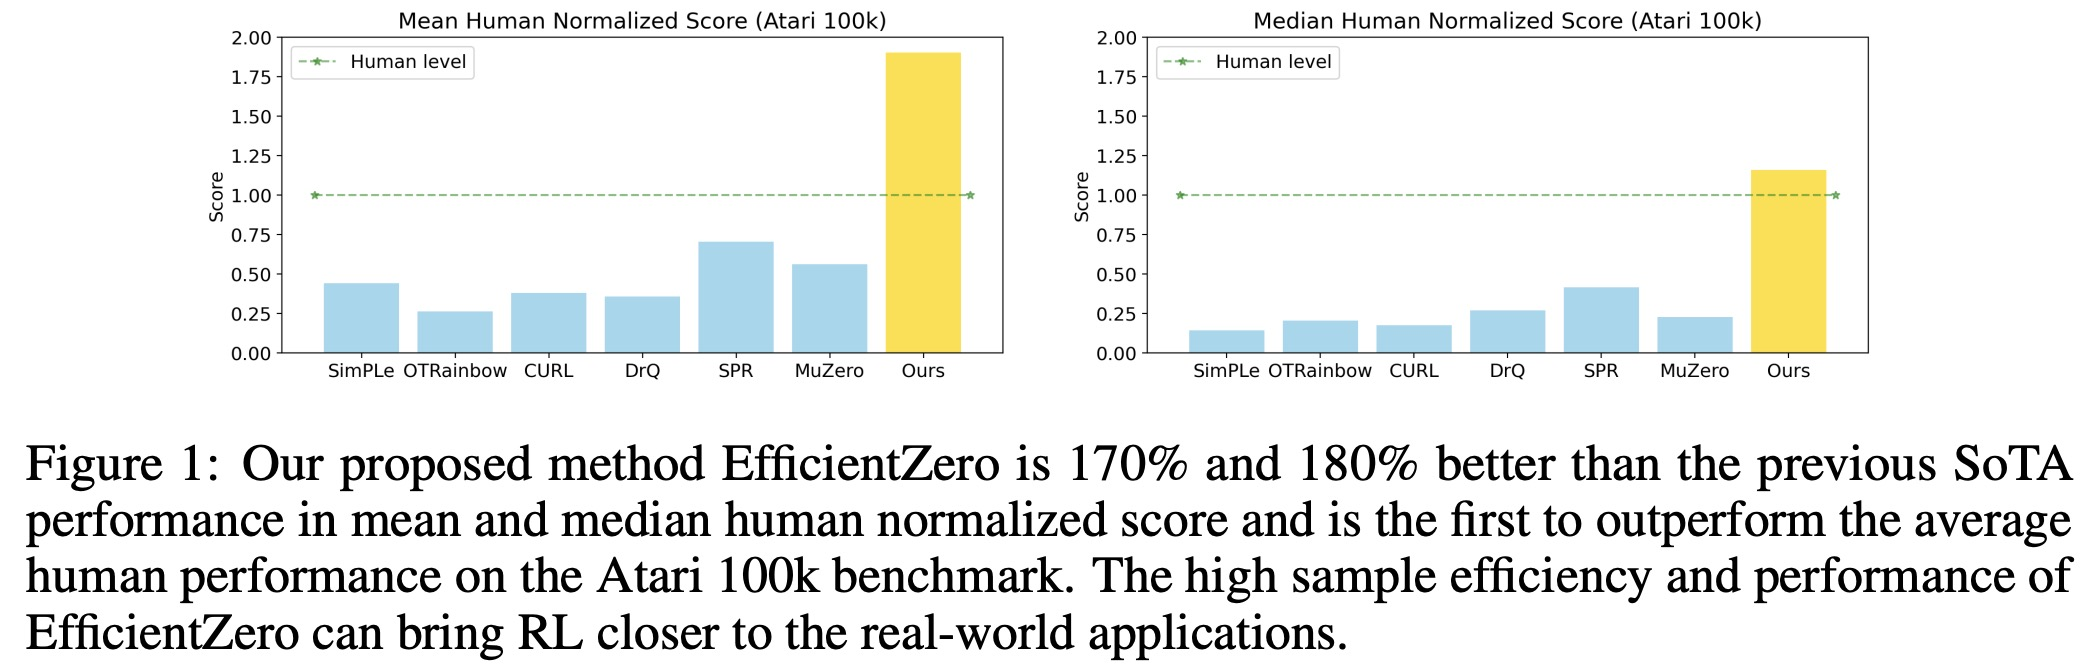
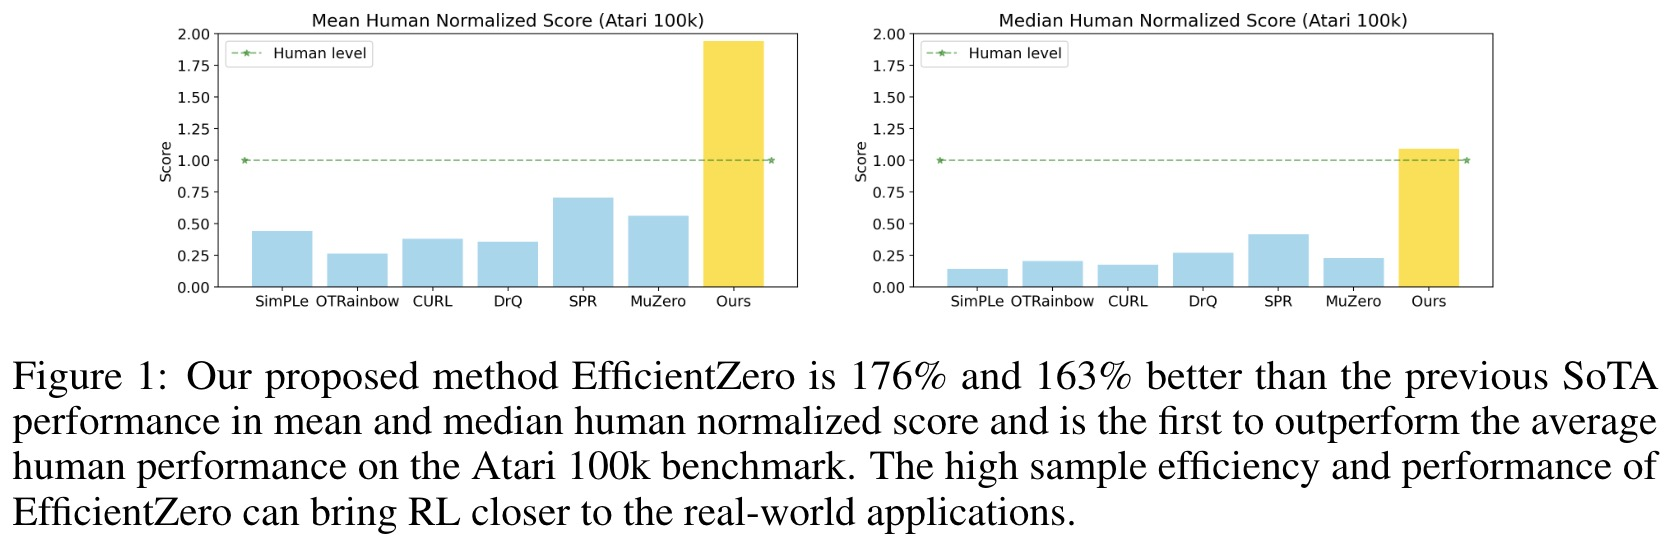
add something

diff --git a/projects/efficientzero/index.html b/projects/efficientzero/index.html
@@ -61,7 +61,7 @@
     },
     "headline": "Mastering Atari Games with Limited Data | Weirui Ye","datePublished": "2021-11-03T00:00:00+00:00",
     "dateModified": "2021-11-03T00:00:00+00:00",
-    "wordCount":  337 ,
+    "wordCount":  356 ,
     "publisher": {
         "@type": "Person",
         "name": "Weirui Ye",
@@ -224,7 +224,7 @@ However, sample efficiency remains a key challenge, with prominent methods requi
 Recently, there has been significant progress in sample efficient image-based RL algorithms;
 however, consistent human-level performance on the Atari game benchmark remains an elusive goal.
 We propose a sample efficient model-based visual RL algorithm built on MuZero, which we name EfficientZero.
-Our method achieves 190.4% mean human performance and 116.0% median performance on the Atari 100k benchmark with only two hours of real-time game experience and outperforms the state SAC in some tasks on the DMControl 100k benchmark.
+Our method achieves 194.3% mean human performance and 109.0% median performance on the Atari 100k benchmark with only two hours of real-time game experience and outperforms the state SAC in some tasks on the DMControl 100k benchmark.
 This is the first time an algorithm achieves super-human performance on Atari games with such little data.
 EfficientZero&rsquo;s performance is also close to DQN&rsquo;s performance at 200 million frames while we consume 500 times less data.
 EfficientZero&rsquo;s low sample complexity and high performance can bring RL closer to real-world applicability.
@@ -241,6 +241,17 @@ We implement our algorithm in an easy-to-understand manner and it is available a
 <li>Use the learned model to correct off-policy value targets (less off-policy issue)</li>
 </ul>
 <p>Please refer to the <a href="https://arxiv.org/abs/2111.00210">paper</a> for more details.</p>
+<h2 id="training-curve">Training curve</h2>
+<p>Evaluation with 32 seeds for 3 different runs (different seeds).</p>
+<center>
+<img width="600" src="/images/efficientzero/total_results.png">
+</center>
+<!--more-->
+<p>IQM, Optimality Gap, Median, Mean from <a href="https://github.com/google-research/rliable.git">rliable</a>.</p>
+<center>
+<img width="600" src="/images/efficientzero/atari_100k_aggregates.png">
+</center>
+<!--more-->
 <h2 id="some-video-results-100k-environment-steps-data">Some Video Results (100k environment steps data)</h2>
 <div class="t" style="display: table; width: 100%; height: auto;">
     <ul style="display: table-row">
@@ -336,6 +347,7 @@ We implement our algorithm in an easy-to-understand manner and it is available a
   <ul>
     <li><a href="#abstract">Abstract</a></li>
     <li><a href="#efficientzero">EfficientZero</a></li>
+    <li><a href="#training-curve">Training curve</a></li>
     <li><a href="#some-video-results-100k-environment-steps-data">Some Video Results (100k environment steps data)</a></li>
     <li><a href="#citing">Citing</a></li>
   </ul>
